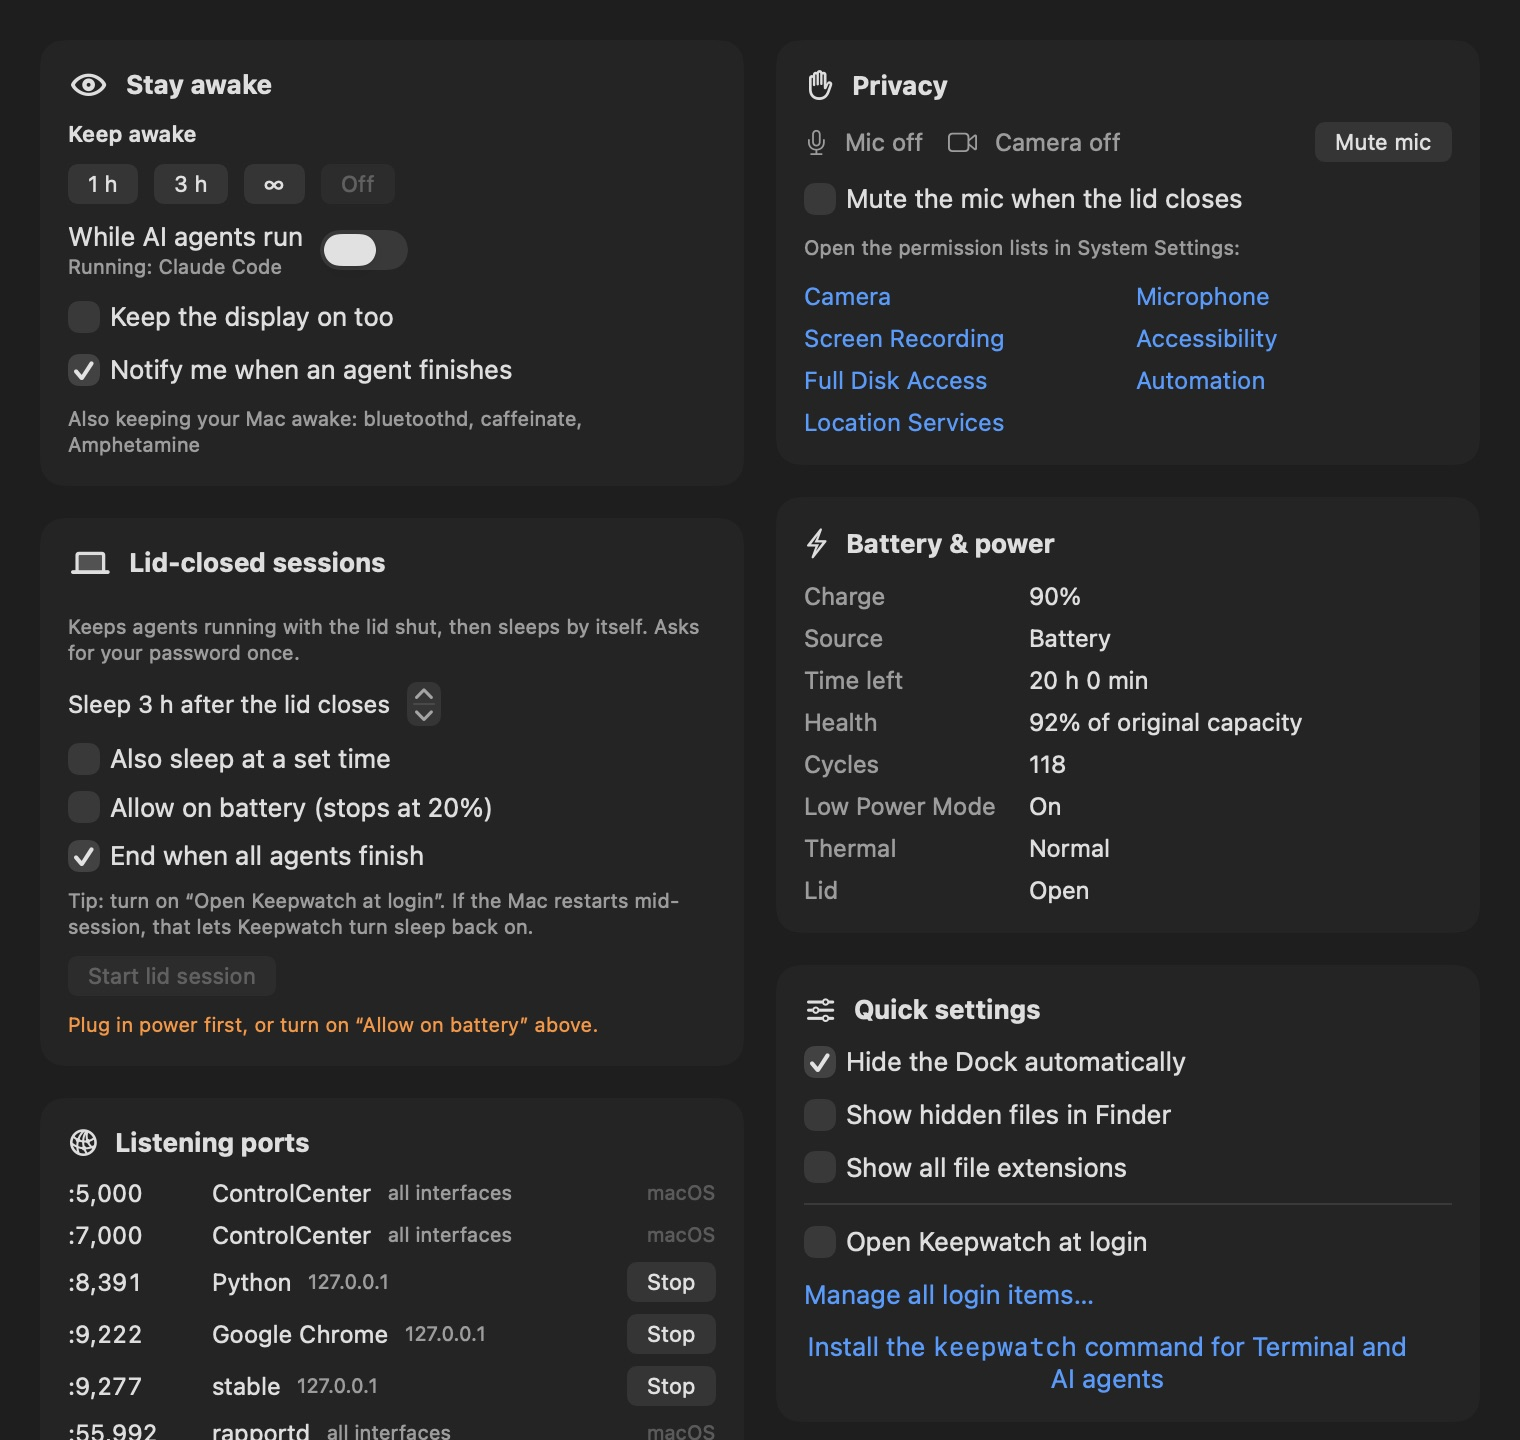
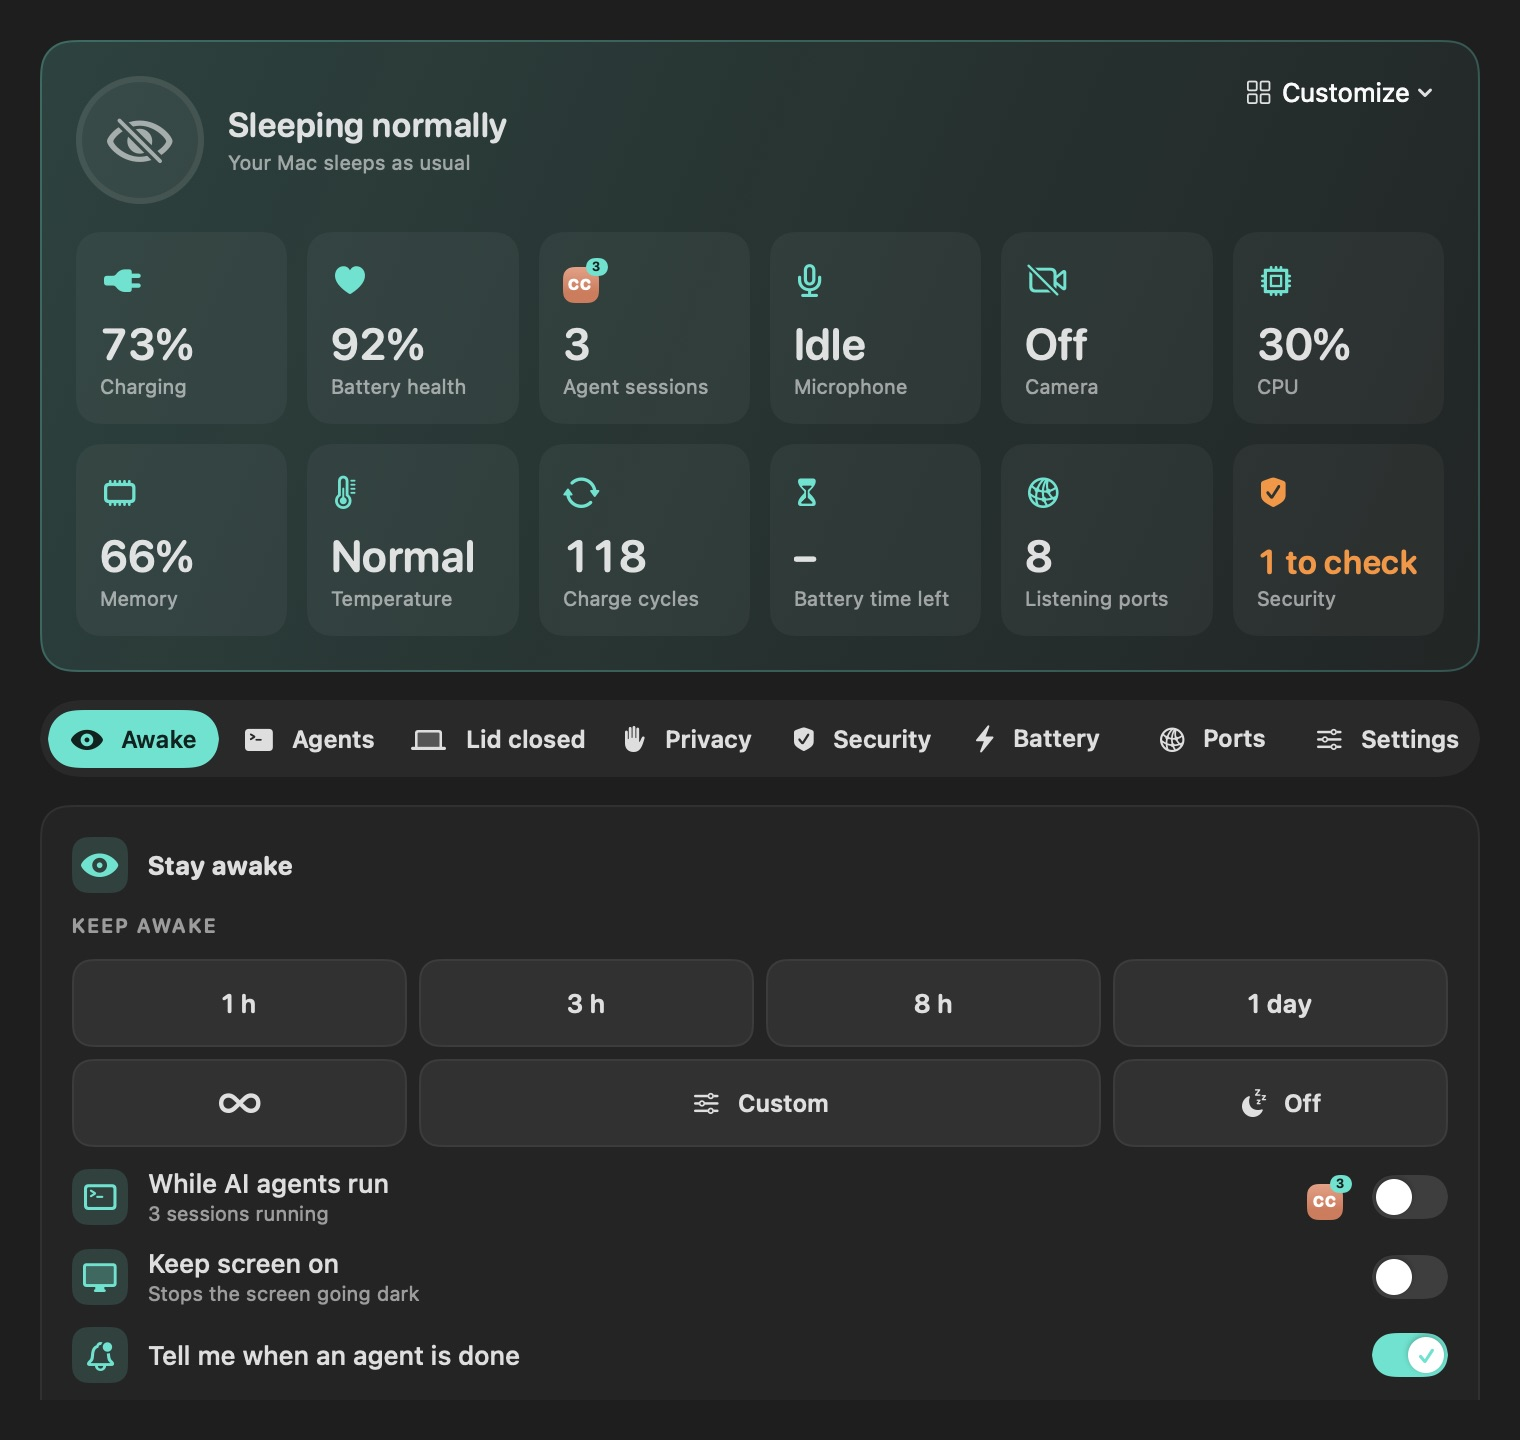
Keepwatch 0.2: new screenshots, Agents and Apps tabs, custom times, privacy and security

diff --git a/keepwatch/index.html b/keepwatch/index.html
@@ -37,7 +37,7 @@
       "operatingSystem": "macOS 14 or later",
       "url": "https://agentskilldeck.github.io/keepwatch/",
       "downloadUrl": "https://github.com/AgentSkillDeck/keepwatch/releases/latest",
-      "softwareVersion": "0.1.0",
+      "softwareVersion": "0.2.0",
       "license": "https://www.apache.org/licenses/LICENSE-2.0",
       "isAccessibleForFree": true,
       "offers": { "@type": "Offer", "price": "0", "priceCurrency": "USD" },
@@ -48,7 +48,13 @@
       "featureList": [
         "Keep the Mac awake while Claude Code, Codex, Gemini CLI and other agent CLIs run",
         "Lid-closed sessions that sleep N hours after the lid closes or at a set time",
-        "Never on battery by default, 12-hour hard cap, thermal cut-out",
+        "On battery only above 20%, 12-hour hard cap, thermal cut-out",
+        "Keep awake for any length (minutes to weeks) or until a set time",
+        "Agents tab: every Claude Code, Codex and Gemini CLI session with working or idle status and Stop",
+        "Mic switch, camera status, alerts and a local mic and camera history",
+        "Read-only security checks: firewall, FileVault, Gatekeeper, SIP, AirDrop",
+        "Customisable summary: battery, health, CPU, memory, agents, mic, camera and more",
+        "Global shortcuts for keep-awake and Apple's screenshot toolbar",
         "Live microphone and camera in-use indicators and which app uses the mic",
         "Mute the mic when the lid closes",
         "Battery health, cycle count and thermal state",
@@ -80,7 +86,7 @@
         {
           "@type": "Question",
           "name": "Is it safe to keep a MacBook awake with the lid closed in a bag?",
-          "acceptedAnswer": { "@type": "Answer", "text": "Heat in a closed bag is the main risk, so Keepwatch only runs lid-closed sessions on power by default, ends them on serious thermal pressure or low battery, caps every session at 12 hours, and checks on every launch that sleep was not left off." }
+          "acceptedAnswer": { "@type": "Answer", "text": "Heat in a closed bag is the main risk, so Keepwatch only starts lid-closed sessions on power or on battery above 20%, ends them on serious thermal pressure or at 20% battery, caps every session at 12 hours, and checks on every launch that sleep was not left off." }
         },
         {
           "@type": "Question",
@@ -160,7 +166,7 @@
     </div>
     <div class="meta"><span>macOS 14 Sonoma or later</span><span>Apple Silicon and Intel</span><span>Apache-2.0</span><span>No account, no network, no telemetry</span></div>
   </div>
-  <img class="shot" src="img/menu-dark.jpg" width="640" height="776" alt="The Keepwatch menu: battery, mic and camera status, keep-awake buttons, a 'While AI agents run' switch and lid-closed session controls">
+  <img class="shot" src="img/menu-dark.jpg" width="640" height="1408" alt="The Keepwatch menu: awake status with time left, microphone and camera switches, keep-awake buttons for 1 h, 3 h, 8 h, 1 day, forever or a custom time, agent session badges and lid-closed session controls">
 </div>
 
 <section id="features">
@@ -168,12 +174,14 @@
     <h2>Everything a laptop developer reaches for, in one menu</h2>
     <p class="lede">No more choosing between a sleeping Mac that kills a three-hour agent run and a Mac left awake all night in your bag.</p>
     <div class="grid">
-      <div class="card"><h3>Awake while agents run</h3><p>Detects Claude Code, Codex, Gemini CLI, Aider, OpenCode, Goose, Amp and more. Sleeps normally two minutes after the last one exits, and tells you when an agent finishes.</p></div>
+      <div class="card"><h3>Awake while agents run</h3><p>Detects Claude Code, Codex, Gemini CLI, Aider, OpenCode, Goose, Amp and more. Sleeps normally two minutes after the last one exits, and tells you when an agent finishes or goes quiet.</p></div>
+      <div class="card"><h3>Any length you want</h3><p>1 hour, 3, 8, a day, forever, or a custom number of minutes, hours, days or weeks. Or “until 18:30”. Stops by itself when you unplug or the battery gets low, if you like.</p></div>
+      <div class="card"><h3>Every agent session</h3><p>An Agents tab groups your Claude Code, Codex and other sessions, shows the folder, when each started and whether it is working or idle, and stops one with a click.</p></div>
       <div class="card"><h3>Lid-closed sessions</h3><p>Keep working with the lid shut, then sleep three hours after the lid closes, at 1:00, or when agents finish. One password per session; a watchdog ends it even if the app quits.</p></div>
-      <div class="card"><h3>Safe by default</h3><p>Lid sessions run only on power unless you allow battery (then they stop at 20%). Thermal cut-out, 12-hour cap, and a check on every launch that sleep wasn't left off.</p></div>
-      <div class="card"><h3>Mic and camera watch</h3><p>Live indicators in the menu bar, which app is using your microphone, one-click mute, and mute when the lid closes. Keepwatch itself never records anything.</p></div>
+      <div class="card"><h3>Safe by default</h3><p>Lid sessions start on power, or on battery above 20%, and stop at 20%. Thermal cut-out, 12-hour cap, and a check on every launch that sleep wasn't left off.</p></div>
+      <div class="card"><h3>Privacy and security</h3><p>A mic switch, camera status, alerts when either turns on, a history kept on your Mac, and checks for firewall, FileVault, Gatekeeper, SIP and AirDrop. Keepwatch itself never records anything.</p></div>
       <div class="card"><h3>Battery and power</h3><p>Battery health as a percentage of original capacity, cycle count, time left, Low Power Mode, thermal state, and who else is keeping your Mac awake.</p></div>
-      <div class="card"><h3>Developer extras</h3><p>See which of your processes are listening on which ports, and stop one with a confirmation. One-click Dock and Finder toggles, and links to every privacy pane.</p></div>
+      <div class="card"><h3>Developer extras</h3><p>Listening ports with Stop, CPU and memory at a glance, ⌃⌥⌘K to keep awake from anywhere, and ⌃⌥⌘S for Apple's screenshot and screen-video toolbar.</p></div>
     </div>
   </div>
 </section>
@@ -182,14 +190,18 @@
   <div class="wrap two">
     <div>
       <h2>A command line your agents can use</h2>
-      <p class="lede">Install the <code>keepwatch</code> command from the dashboard. Agents get stable JSON and exit codes, and they can never start a lid session: that always needs your password.</p>
+      <p class="lede">Install the <code>keepwatch</code> command from the dashboard. Agents get stable JSON and exit codes. They can ask for a lid session, but only you can approve it, by typing your password on the Mac.</p>
       <p class="note">Add the agent skill so Claude Code and Codex know when to use it: <code>npx skills add AgentSkillDeck/keepwatch</code></p>
     </div>
 <pre><span class="c"># stay awake exactly while a command runs</span>
 $ keepwatch run -- npm test
 
-<span class="c"># stay awake while any agent CLI runs</span>
-$ keepwatch awake --agents
+<span class="c"># stay awake for 2 days, or until 18:30</span>
+$ keepwatch awake --for 2d
+$ keepwatch awake --until 18:30
+
+<span class="c"># every agent session: folder, working or idle</span>
+$ keepwatch agents
 
 <span class="c"># power, sleep blockers, agents, mic/camera</span>
 $ keepwatch status --json
@@ -202,8 +214,9 @@ $ keepwatch ports</pre>
 <section id="dashboard">
   <div class="wrap">
     <h2>The dashboard</h2>
-    <p class="lede">Every control in one window: stay awake, lid-closed sessions, privacy, battery and power, quick settings, listening ports and start at login.</p>
-    <img class="shot" src="img/dashboard-dark.jpg" width="1520" height="1440" loading="lazy" alt="Keepwatch dashboard with stay-awake, lid-closed session, privacy, battery and power, and quick settings cards">
+    <p class="lede">Pick what the summary shows, then switch tabs: Awake, Agents, Lid closed, Privacy, Security, Battery, Ports and Settings.</p>
+    <img class="shot" src="img/dashboard-dark.jpg" width="1520" height="1440" loading="lazy" alt="Keepwatch dashboard: a summary of battery, battery health, agent sessions, microphone, camera, CPU, memory, temperature, charge cycles, ports and security, above tabs and the keep-awake controls">
+    <img class="shot" src="img/privacy-dark.jpg" width="1520" height="1440" loading="lazy" style="margin-top:24px" alt="Keepwatch Privacy tab: microphone switch, camera status, alerts, mute when the lid closes, reset camera access, history and links to app permissions">
   </div>
 </section>
 
@@ -212,7 +225,7 @@ $ keepwatch ports</pre>
     <h2>Questions</h2>
     <details open><summary>Can a MacBook keep running with the lid closed without an external display?</summary><p>Not by default: closing the lid sleeps the Mac unless an external display, power and keyboard are attached. Keepwatch runs a lid-closed session: you enter your password once, it turns sleep off, and a small watchdog turns sleep back on and puts the Mac to sleep after the time you chose, at a set time, when your agents finish, or if the battery gets low.</p></details>
     <details><summary>How do I keep my Mac awake while Claude Code or Codex is running?</summary><p>Turn on “While AI agents run” in Keepwatch, or run <code>keepwatch awake --agents</code>. The Mac stays awake while agent CLIs run, then sleeps normally two minutes after the last one exits. Agents can also wrap a single command with <code>keepwatch run -- &lt;command&gt;</code>.</p></details>
-    <details><summary>Is it safe to keep a MacBook awake with the lid closed in a bag?</summary><p>Heat in a closed bag is the main risk, so Keepwatch only runs lid-closed sessions on power by default, ends them on serious thermal pressure or low battery, caps every session at 12 hours, and checks on every launch that sleep was not left off.</p></details>
+    <details><summary>Is it safe to keep a MacBook awake with the lid closed in a bag?</summary><p>Heat in a closed bag is the main risk, so Keepwatch only starts lid-closed sessions on power or on battery above 20%, ends them on serious thermal pressure or at 20% battery, caps every session at 12 hours, and checks on every launch that sleep was not left off.</p></details>
     <details><summary>How is Keepwatch different from caffeinate or Amphetamine?</summary><p><code>caffeinate</code> can't keep a Mac awake with the lid closed, and Amphetamine needs a separate helper for that. Keepwatch is built for AI agents: it knows when agent CLIs are running, ends lid sessions on its own, adds mic and camera indicators, and ships a CLI with JSON output that agents can call. It's free and open source under Apache-2.0.</p></details>
     <details><summary>Does Keepwatch need microphone or camera permission?</summary><p>No. It never records anything; it only asks macOS whether the microphone or camera is running. It needs no Full Disk Access, Accessibility or Screen Recording permission and makes no network requests.</p></details>
     <p class="note">Lid-closed sessions are in beta. Read exactly what runs with administrator rights in <a href="https://github.com/AgentSkillDeck/keepwatch/blob/main/SECURITY.md">SECURITY.md</a>.</p>

diff --git a/index.html b/index.html
@@ -507,7 +507,7 @@
           <a class="btn ghost" href="https://github.com/AgentSkillDeck/keepwatch">Source on GitHub</a>
         </div>
       </div>
-      <a href="keepwatch/" class="kw-shot"><img src="keepwatch/img/menu-dark.jpg" width="640" height="776" loading="lazy" alt="Keepwatch menu-bar app with keep-awake, lid-closed session and mic and camera controls"></a>
+      <a href="keepwatch/" class="kw-shot"><img src="keepwatch/img/menu-dark.jpg" width="640" height="1408" loading="lazy" alt="Keepwatch menu-bar app with keep-awake, lid-closed session and mic and camera controls"></a>
     </div>
   </div>
 </section>
